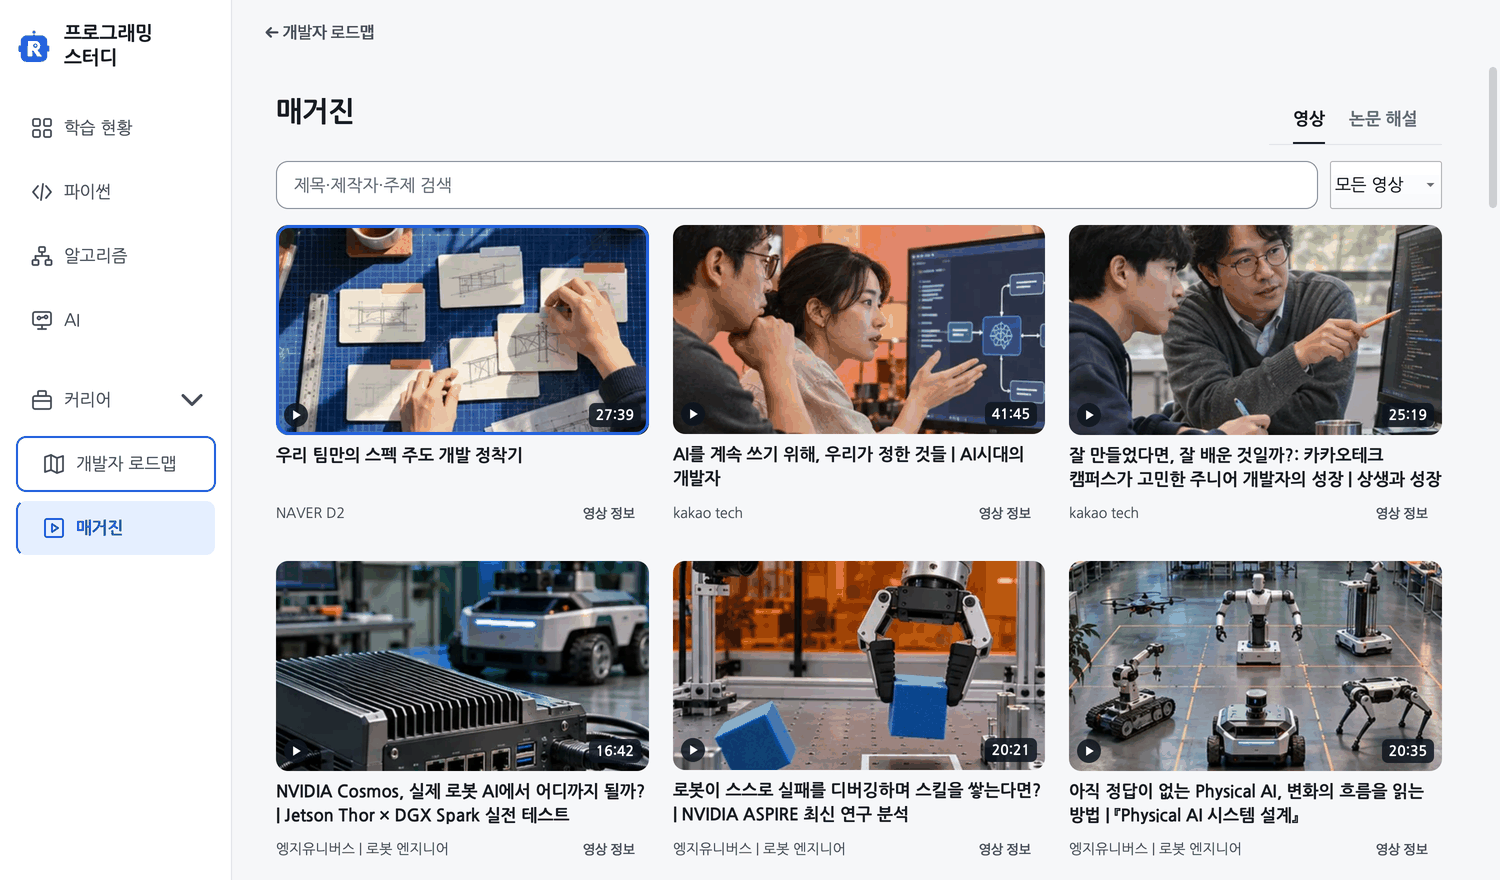
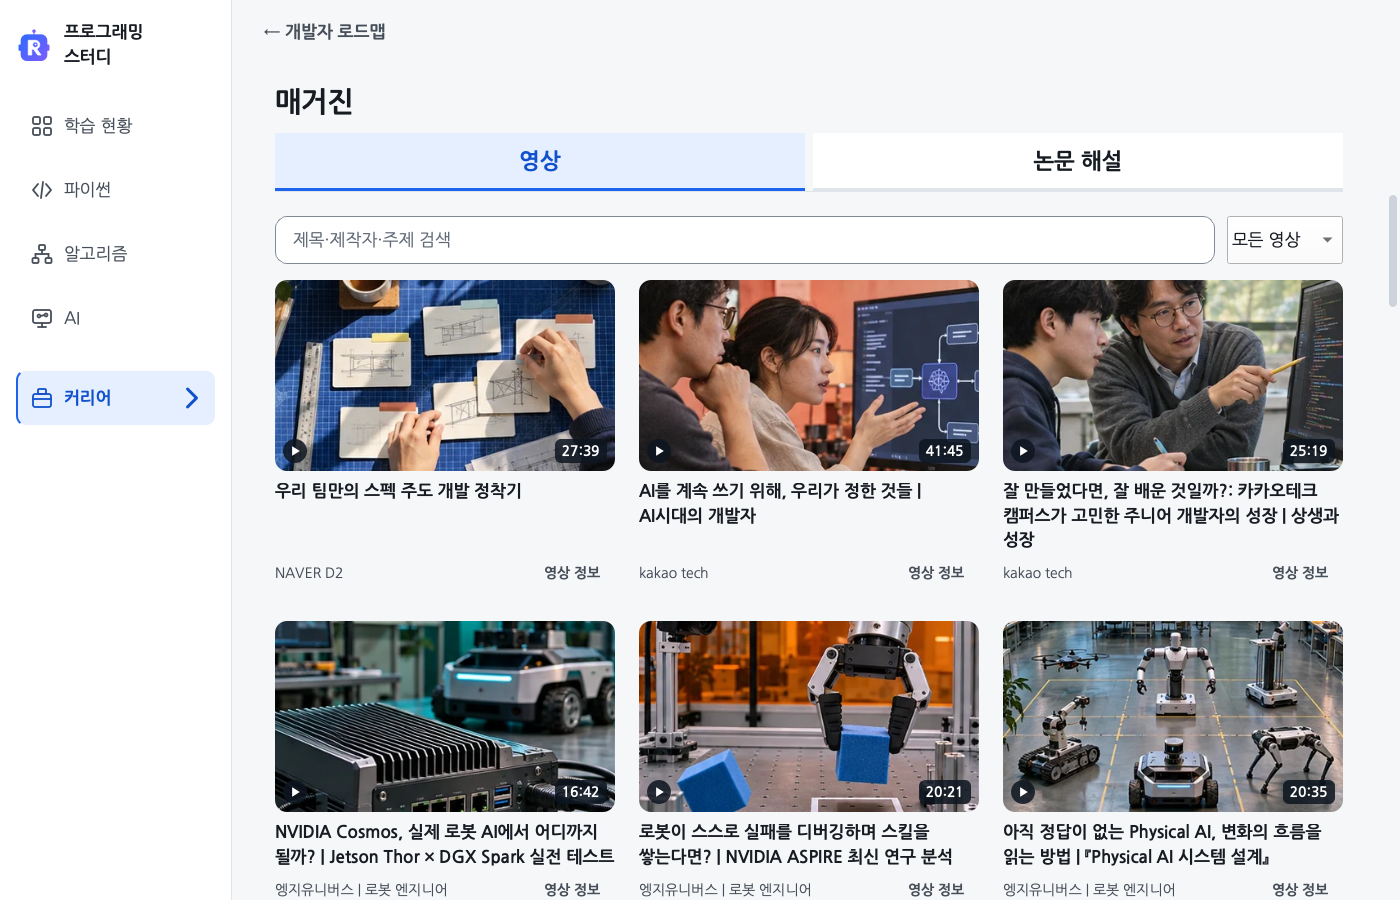
fix(gui): 매거진 영상·논문 탭을 상단에 고정 (#232)

diff --git a/gui/career_magazine.py b/gui/career_magazine.py
@@ -2,7 +2,7 @@
 from functools import partial
 from urllib.parse import urlsplit
 
-from PyQt6.QtCore import Qt, pyqtSignal
+from PyQt6.QtCore import QEvent, Qt, pyqtSignal
 from PyQt6.QtWidgets import QComboBox, QDialog, QLineEdit, QSizePolicy, QWidget
 
 from career.catalog import load_catalog
@@ -12,6 +12,35 @@ from gui.career_paper_preview import PaperPreview
 from gui.career_roadmap import ReadingPage, flow_buttons
 from gui.dialog_layout import DialogLayout
 from gui.paper_explainer import load_explanations
+
+
+class MagazineTabs(kit.TabBar):
+    """영상과 논문 입구를 같은 폭으로 표시하고 공통 탭 동작을 유지함."""
+    def __init__(self):
+        super().__init__(["영상", "논문 해설"])
+        row = self.layout().itemAt(0).layout()
+        row.setContentsMargins(0, 0, 0, 0)
+        row.setSpacing(theme.GAP["detail"])
+        row.takeAt(row.count() - 1)
+        for number, tab in enumerate(self.buttons):
+            kit.typed(tab, "headline", True)
+            row.setStretch(number, 1)
+        self.refont()
+
+    def refont(self):
+        height = theme.TYPE["headline"][1] + theme.GAP["group"]
+        color = lambda key: theme.qcolor(key).name()
+        self.setStyleSheet(f"""
+            QPushButton#tab {{ background: {color('surface')}; color: {color('ink')};
+                font-size: {theme.TYPE['headline'][0]}px; font-weight: 700;
+                min-height: {height}px; max-height: {height}px; padding: 0 16px;
+                border: 1px solid transparent; border-bottom: 3px solid {color('line')}; }}
+            QPushButton#tab:hover {{ background: {color('hover')}; }}
+            QPushButton#tab:checked {{ background: {color('selection')}; color: {color('selection_ink')};
+                border-bottom-color: {color('link')}; }}
+            QPushButton#tab:focus {{ border-top-color: {color('focus')};
+                border-left-color: {color('focus')}; border-right-color: {color('focus')}; }}
+        """)
 
 
 class SourceDetails(QWidget):
@@ -56,17 +85,16 @@ class CareerMagazinePage(ReadingPage):
         self._requested_id = None
         self._tab_anchors = {}
         title = kit.para("매거진", "title")
-        title.setProperty("reading_anchor", True)
         header = QWidget()
-        heading = kit.box(header, spacing=theme.GAP["paragraph"], horizontal=True)
+        heading = kit.box(header, (0, theme.GAP["group"], 0, 0), spacing=theme.GAP["paragraph"])
         heading.addWidget(title)
-        heading.addStretch(1)
-        self.tabs = kit.TabBar(["영상", "논문 해설"])
+        self.tabs = MagazineTabs()
         self.tabs.setAccessibleName("매거진 자료 종류")
         self.tabs.picked.connect(self._change_tab)
         heading.addWidget(self.tabs)
-        self.body.addWidget(header)
-        self.body.addSpacing(theme.GAP["paragraph"])
+        self.navigation_column = kit.column(header)
+        self.navigation_column.setContentsMargins(kit.MARGIN, 0, kit.MARGIN, 0)
+        self.layout().insertWidget(1, self.navigation_column)
 
         self.video_content = QWidget()
         self.video_box = kit.box(self.video_content, spacing=theme.GAP["paragraph"])
@@ -119,6 +147,16 @@ class CareerMagazinePage(ReadingPage):
         self._show_papers()
         self._filter()
         self._update_actions()
+        QWidget.setTabOrder(self.top.back, self.tabs.buttons[0])
+        QWidget.setTabOrder(self.tabs.buttons[0], self.tabs.buttons[1])
+        QWidget.setTabOrder(self.tabs.buttons[1], self.search)
+
+    def eventFilter(self, target, event):
+        if (target is self.scroll.viewport() and event.type() == QEvent.Type.Resize
+                and hasattr(self, "navigation_column")):
+            gutter = self.scroll.width() - self.scroll.viewport().width()
+            self.navigation_column.setContentsMargins(kit.MARGIN, 0, kit.MARGIN + gutter, 0)
+        return super().eventFilter(target, event)
 
     def set_viewer(self, widget):
         """부모가 만든 재생 위젯을 붙임. URL을 설정하거나 재생을 시작하지 않음."""
@@ -340,7 +378,7 @@ class CareerMagazinePage(ReadingPage):
 
     def _show_papers(self):
         state = self.catalog.states["papers"]
-        self.paper_box.addWidget(kit.heading(kit.para("논문 해설", "headline"), kit.para("어떤 문제를 풀려는 논문인지 읽고, 그림으로 계산 과정을 따라가세요.")))
+        self.paper_box.addWidget(kit.para("어떤 문제를 풀려는 논문인지 읽고, 그림으로 계산 과정을 따라가세요."))
         if state != "ready":
             text = {"unavailable": "논문 해설 자료는 아직 제공하지 않습니다.", "empty": "공개한 논문 해설이 없습니다.",
                     "invalid": "논문 해설 자료를 읽지 못했습니다. 프로그램을 업데이트한 뒤 다시 열어 주세요."}[state]

diff --git a/tests/test_gui_career.py b/tests/test_gui_career.py
@@ -417,6 +417,43 @@ class CareerGuiTest(unittest.TestCase):
         self.assertEqual(page.selected_video_id, "H89Az-iZZrc")
         self.assertEqual(bar.value(), before)
 
+    def test_magazine_pinned_tabs_keep_filters_scroll_and_keyboard_navigation(self):
+        page = self.show(CareerMagazinePage, on_back=Mock())
+        page.top.back.setFocus()
+        QTest.keyClick(page.top.back, Qt.Key.Key_Tab)
+        self.assertTrue(page.tabs.buttons[0].hasFocus())
+        QTest.keyClick(page.tabs.buttons[0], Qt.Key.Key_Tab)
+        self.assertTrue(page.search.hasFocus())
+        page.search.setText("AI")
+        page.origin.setCurrentIndex(2)
+        self.settle(page)
+        bar = page.scroll.verticalScrollBar()
+        bar.setValue(min(400, bar.maximum()))
+        self.assertGreater(bar.value(), 0)
+        before = bar.value()
+        tabs = page.tabs.buttons
+        top = tabs[1].mapTo(page, QPoint()).y()
+        guikit.click(tabs[1])
+        self.settle(page)
+        self.assertTrue(page.paper_content.isVisible())
+        bar.setValue(min(600, bar.maximum()))
+        paper_position = bar.value()
+        self.assertEqual(tabs[1].mapTo(page, QPoint()).y(), top)
+        tabs[1].setFocus()
+        QTest.keyClick(tabs[1], Qt.Key.Key_Left)
+        self.settle(page)
+        self.assertTrue(tabs[0].hasFocus())
+        self.assertTrue(tabs[0].isChecked())
+        self.assertTrue(page.video_content.isVisible())
+        self.assertEqual(page.search.text(), "AI")
+        self.assertEqual(page.origin.currentIndex(), 2)
+        self.assertEqual(bar.value(), before)
+        QTest.keyClick(tabs[0], Qt.Key.Key_Right)
+        self.settle(page)
+        self.assertTrue(tabs[1].hasFocus())
+        self.assertTrue(page.paper_content.isVisible())
+        self.assertEqual(bar.value(), paper_position)
+
     def test_font_theme_and_page_roundtrip_keep_selection_and_reading_anchor(self):
         page = self.show(CareerRoadmapPage)
         page.select_role("robot_policy")
@@ -483,6 +520,22 @@ class CareerGuiTest(unittest.TestCase):
                     self.settle(page)
                     self.assertEqual(page.width(), width)
                     self.assertLessEqual(page.content.width(), width)
+                    first, second = page.tabs.buttons
+                    self.assertAlmostEqual(first.width(), second.width(), delta=1)
+                    self.assertEqual(first.height(), second.height())
+                    self.assertEqual(first.font().pixelSize(), theme.TYPE["headline"][0])
+                    self.assertEqual(first.font(), second.font())
+                    self.assertEqual(first.mapTo(page, QPoint()).x(), page.content.mapTo(page, QPoint()).x())
+                    self.assertEqual(second.mapTo(page, QPoint(second.width(), 0)).x(),
+                                     page.content.mapTo(page, QPoint(page.content.width(), 0)).x())
+                    self.assertGreaterEqual(page.scroll.viewport().height(), 200)
+                    fixed_position = second.mapTo(page, QPoint())
+                    page.scroll.verticalScrollBar().setValue(page.scroll.verticalScrollBar().maximum())
+                    self.settle(page)
+                    self.assertEqual(second.mapTo(page, QPoint()), fixed_position)
+                    self.assertTrue(page.rect().contains(second.mapTo(page, second.rect().bottomRight())))
+                    page.scroll.verticalScrollBar().setValue(0)
+                    self.settle(page)
                     for child in page.content.findChildren(QWidget):
                         if child.isVisibleTo(page.content):
                             x = child.mapTo(page.content, QPoint()).x()

diff --git a/docs/CHANGE_IMPACT.md b/docs/CHANGE_IMPACT.md
@@ -57,6 +57,7 @@ flowchart TD
 | 커리어·공개 자료·관심 직무 | 산업과 제품의 대응, 출처 확인일, 수업 범위, 기존 연구 목표와 선택 시각 | 일부 공통 기술이 있는 직무를 기존 목표와 같은 직무로 잘못 분류할 수 있습니다. 관심 직무는 기기 설정에만 저장하며 과거 풀이를 다시 분류하지 않습니다. 목록 필터·탭별 읽던 위치·저장 표시는 구분하고 상세에서 목록으로 돌아갈 때 확인합니다. |
 | 영상 재생·선택형 부품 설치 | 기존 Qt 버전, 오프라인·취소·종료·재시도, 늦은 결과, 실제 재생 신호, 전체화면 진입·Esc·창 복원, 원본 열기 | 목록만 열어도 설치나 통신이 시작되거나 닫은 뒤 소리가 남을 수 있습니다. 실제 엔진의 전체화면 요청과 넓은 화면의 영상 영역을 확인합니다. 준비·버퍼링을 재생 중으로 표시하지 않으며 부품 설치 실패가 학습 실행을 막지 않게 합니다. |
 | 논문 그림·단계별 해설 | 원논문 아이디어와 단순화한 예의 차이, 축·모양·계산, 그림 이용 조건 | 학습 예를 논문 성능 재현으로 표현하거나 서로 다른 기법을 같은 그림으로 설명할 수 있습니다. 원문과 직접 그린 설명을 구분합니다. |
+| 매거진의 고정 탐색 줄 | 본문 너비, 작은 창의 읽기 공간, 탭별 스크롤·검색 조건, 영상 정지 | 탐색 줄이 본문을 가리거나 작은 창에서 그림을 읽을 자리가 부족할 수 있습니다. 영상·논문 양쪽에서 스크롤 후 탭을 누르고 키보드로도 전환합니다. |
 | 설정 메뉴·보조 설명·등장 효과 | 실제 누를 위치, 사용 안내 대상, 키보드·바깥 클릭, 글자·테마 변경, 움직임 줄이기 | 메뉴 위치가 버튼에서 떨어지거나 설명이 숨은 버튼을 가리킬 수 있습니다. 닫는 효과가 끝나기 전에 동작을 중복 실행하지 않는지 확인합니다. |
 | 답안 칸의 복사·붙여넣기 제한 | 학습 본문·심화·코드 빈칸·연습·모의고사, 직접 입력·한글 조합·되돌리기, 설명과 인증 코드 복사 | 읽기 화면의 복사 허용이 답안 칸까지 풀리거나 제한 안내가 답안·선택 범위·읽던 위치를 바꿀 수 있습니다. |
 | 제출 버튼·자동 연결·결과 안내 | 최신 동의·철회·파일 유무·대기 접수·기존 서버·작업 중 상태·파일 목록 | 이미 동의한 사용자에게 확인창을 반복하거나, 응답 유실 후 원래 파일로 되돌린 풀이의 접수를 놓칠 수 있습니다. 시험의 통신 대체가 빠지면 운영 서버로 시험 자료를 보낼 수 있으므로 외부 통신도 차단합니다. |

diff --git a/docs/career/README.md b/docs/career/README.md
@@ -26,7 +26,7 @@
 
 ## 영상 보기
 
-[매거진]의 [영상] 탭에서 제목·제작자·주제로 찾습니다. 영상 38개를 업로드 날짜순으로 정리했습니다. 날짜가 확인되지 않은 영상은 맨 뒤에 놓습니다.
+[매거진] 제목 아래에서 [영상]과 [논문 해설]을 고릅니다. 두 탭은 아래로 스크롤해도 화면 위에 남습니다. [영상]에서는 제목·제작자·주제로 찾습니다. 영상 38개를 업로드 날짜순으로 정리했습니다. 날짜가 확인되지 않은 영상은 맨 뒤에 놓습니다.
 
 [![표지와 제목으로 영상을 고르는 매거진 화면](../img/career-magazine.png)](../img/career-magazine.png)
 
